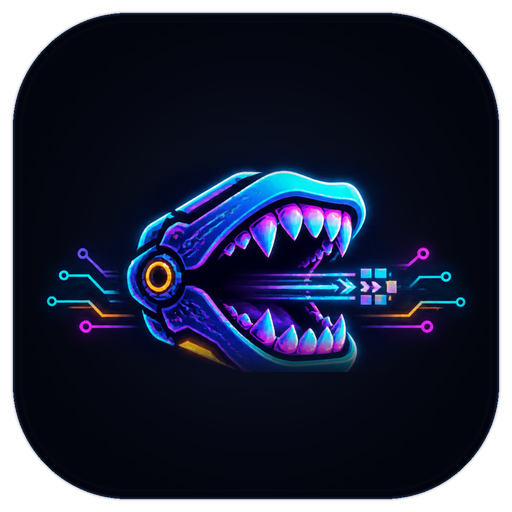
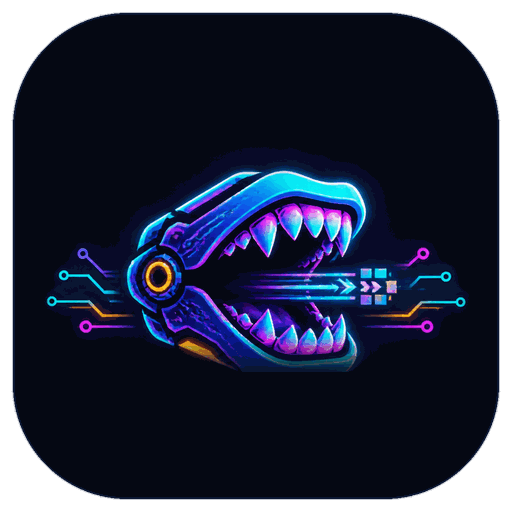
feat(site): 下载页支持 Windows ARM64 与 Linux ARM64，OG 图改用 JPG
- 平台/架构枚举从写死两套扩到六个：win-x64、win-arm64、mac-arm64、mac-x64、
  linux-x64、linux-arm64。原先只有 win-x64 和 linux-x64 会被列出来，
  另外四个架构装了却找不到入口。
- UAData 里补上 getHighEntropyValues，用它读真实架构；拿不到时回退到
  现有的 UA 字符串判断，不影响老逻辑。
- OG 图从 PNG 换成 JPG（体积小得多，社交平台预览图用不上无损）。
- 新增 scripts/check-release-contract.mjs：核对安装包命名、发布矩阵、
  下载文档与网站解析器是否一致，已加入常规 CI。
- 新增 site/src/lib/release-assets.ts 与对应测试，把「哪些安装包是
  真的发布过的」从各处解析逻辑里收拢到一处。

diff --git a/site/scripts/check-images.ts b/site/scripts/check-images.ts
@@ -7,9 +7,10 @@ import { BADGES, badgeVariants } from "../src/data/badges";
 
 const root = path.dirname(path.dirname(fileURLToPath(import.meta.url)));
 const pub = path.join(root, "public");
+const publicPath = (relativePath: string) => path.join(pub, ...relativePath.split("/"));
 const KB = 1024;
 const RULES: [RegExp, number, string][] = [
-  [/^og\/.+\.png$/, 300 * KB, "OG 图 ≤ 300 KB"],
+  [/^og\/.+\.(png|jpe?g)$/i, 300 * KB, "OG 图 ≤ 300 KB"],
   [/^bots\/.+\.(webp|avif)$/, 120 * KB, "机器人精灵图 ≤ 120 KB"],
   [/^(favicon|apple-touch-icon|icon-).+\.png$/, 40 * KB, "图标 ≤ 40 KB"],
   [/\.svg$/, 4 * KB, "SVG ≤ 4 KB"],
@@ -19,7 +20,7 @@ const files: string[] = [];
 (function walk(d: string) {
   for (const e of fs.readdirSync(d, { withFileTypes: true })) {
     const p = path.join(d, e.name);
-    if (e.isDirectory()) walk(p); else files.push(path.relative(pub, p));
+    if (e.isDirectory()) walk(p); else files.push(path.relative(pub, p).split(path.sep).join("/"));
   }
 })(pub);
 
@@ -27,7 +28,7 @@ const bad: string[] = [];
 for (const f of files) {
   const rule = RULES.find(([re]) => re.test(f));
   if (!rule) continue;
-  const size = fs.statSync(path.join(pub, f)).size;
+  const size = fs.statSync(publicPath(f)).size;
   if (size > rule[1]) bad.push(`${f}：${Math.round(size / KB)} KB（${rule[2]}）`);
 }
 // 精灵图的 AVIF 版（scripts/make-bot-avif.ts）必须和当前的 WebP 是同一版：WebP 更新了而 AVIF 没重做，
@@ -35,7 +36,7 @@ for (const f of files) {
 const avifOf: Record<string, string> = JSON.parse(fs.readFileSync(path.join(root, "src/data/bots-avif.json"), "utf8"));
 for (const f of files.filter((f) => /^bots\/.+\.webp$/.test(f))) {
   const key = path.basename(f, ".webp");
-  const hash = crypto.createHash("sha256").update(fs.readFileSync(path.join(pub, f))).digest("hex");
+  const hash = crypto.createHash("sha256").update(fs.readFileSync(publicPath(f))).digest("hex");
   if (!files.includes(`bots/${key}.avif`) || avifOf[key] !== hash) bad.push(`bots/${key}.avif 不是从当前的 ${f} 生成的（npm run bots:avif 重新生成）`);
 }
 // 每张图片徽章都要有本地备份，否则站方的图连不上时格子是空的（styles/footer.css）
@@ -45,7 +46,7 @@ for (const { copy } of BADGES.flatMap(badgeVariants)) {
   if (copy && !files.includes(copy.path)) bad.push(`${copy.path} 不存在（npm run badges:copies 重新生成）`);
   else if (copy && !badgeRatios[copy.path]) bad.push(`${copy.path} 在 badge-ratios.json 里没有宽高比（npm run badges:copies 重新生成）`);
 }
-const fonts = files.filter((f) => f.endsWith(".woff2")).reduce((n, f) => n + fs.statSync(path.join(pub, f)).size, 0);
+const fonts = files.filter((f) => f.endsWith(".woff2")).reduce((n, f) => n + fs.statSync(publicPath(f)).size, 0);
 if (fonts > 60 * KB) bad.push(`字体合计 ${Math.round(fonts / KB)} KB（≤ 60 KB）`);
 if (bad.length) { console.error(`✗ 图片与字体检查未通过：\n  ${bad.join("\n  ")}`); process.exit(1); }
 console.log(`图片与字体体积检查通过（字体合计 ${Math.round(fonts / KB)} KB）`);

diff --git a/site/scripts/releases-from-github.ts b/site/scripts/releases-from-github.ts
@@ -1,5 +1,5 @@
 // 从 GitHub 最新 Release 生成 src/data/releases.json：下载按钮直达 GitHub 上的安装包，官网服务器不提供下载。
-// 文件名按应用 electron-builder 的 artifactName：anymodel-bot-<版本>-<系统>-<架构>.<扩展名>
+// 文件名按应用 electron-builder 的 artifactName：dazuibot-<版本>-<系统>-<架构>.<扩展名>
 //   win-x64 ← *-win-x64.exe（NSIS）   mac-arm64 / mac-x64 ← *-mac-<架构>.dmg   linux-x64 ← *-linux-(x64|x86_64).AppImage
 // SHA-256 取 Release 里的 SHA256SUMS；没有时用 GitHub 给每个文件算的 digest。缺平台时保留占位符（生产构建会因此失败）。
 //   GITHUB_URL     仓库地址（必填），如 https://github.com/<your-org>/dazuibot
@@ -9,6 +9,7 @@
 import fs from "node:fs";
 import path from "node:path";
 import { fileURLToPath } from "node:url";
+import { parseReleaseInstaller, RELEASE_PLATFORMS } from "../src/lib/release-assets";
 
 const root = path.dirname(path.dirname(fileURLToPath(import.meta.url)));
 const repoUrl = (process.env.GITHUB_URL || "").replace(/\/+$/, "").replace(/\.git$/, "");
@@ -46,9 +47,6 @@ try {
   process.exit(1);
 }
 
-const RE = /^dazuibot-(\d+\.\d+\.\d+(?:-[\w.]+)?)-(win|mac|linux)-(x64|arm64|x86_64)\.(exe|dmg|AppImage)$/;
-const PLATFORM: Record<string, string> = { "win-x64-exe": "win-x64", "mac-arm64-dmg": "mac-arm64", "mac-x64-dmg": "mac-x64", "linux-x64-AppImage": "linux-x64", "linux-x86_64-AppImage": "linux-x64" };
-
 // SHA256SUMS：每行 "<64 位十六进制>  <文件名>"
 const sums = new Map<string, string>();
 const sumsAsset = release.assets.find((a) => a.name === "SHA256SUMS");
@@ -69,17 +67,14 @@ const placeholder = (id: string) => {
 };
 const platforms: Record<string, unknown> = {};
 let version = release.tag_name.replace(/^v/, "");
-for (const id of ["win-x64", "mac-arm64", "mac-x64", "linux-x64"]) {
-  const a = release.assets.find((x) => {
-    const r = RE.exec(x.name);
-    return r && PLATFORM[`${r[2]}-${r[3]}-${r[4]}`] === id;
-  });
+for (const id of RELEASE_PLATFORMS) {
+  const a = release.assets.find((x) => parseReleaseInstaller(x.name)?.platform === id);
   const sha = a && (sums.get(a.name) || (a.digest?.startsWith("sha256:") ? a.digest.slice(7) : ""));
   if (!a || !sha) {
     platforms[id] = placeholder(id);
     continue;
   }
-  version = RE.exec(a.name)![1];
+  version = parseReleaseInstaller(a.name)!.version;
   platforms[id] = { url: a.browser_download_url, sha256: sha, sizeMB: Math.round((a.size / 1048576) * 10) / 10 };
 }
 
@@ -99,4 +94,4 @@ const out = {
 };
 fs.writeFileSync(path.join(root, "src/data/releases.json"), JSON.stringify(out, null, 2) + "\n");
 const missing = Object.entries(platforms).filter(([, v]) => /\{[A-Z0-9_]+\}/.test(JSON.stringify(v))).map(([k]) => k);
-console.log(`releases.json：${release.tag_name}（${release.html_url}）${missing.length ? `，缺少 ${missing.join("、")}` : "，四个平台齐全"}`);
+console.log(`releases.json：${release.tag_name}（${release.html_url}）${missing.length ? `，缺少 ${missing.join("、")}` : "，六种架构齐全"}`);

diff --git a/site/src/lib/platform.ts b/site/src/lib/platform.ts
@@ -1,8 +1,26 @@
 // 系统识别（§12.2）：userAgentData.platform → 回退 userAgent；macOS 再尽量判断架构，判断不了时默认 Apple 芯片。
 export type OS = "win" | "mac" | "linux" | "mobile" | "unknown";
-export interface Platform { os: OS; arch: "arm64" | "x64" | "unknown" }
+export type Architecture = "arm64" | "x64" | "unknown";
+export interface Platform { os: OS; arch: Architecture }
 
-type UAData = { platform?: string; mobile?: boolean; getHighEntropyValues?: (h: string[]) => Promise<{ architecture?: string }> };
+type UAData = { platform?: string; mobile?: boolean; getHighEntropyValues?: (h: string[]) => Promise<{ architecture?: string; bitness?: string }> };
+
+export type DownloadPlatformId = "win-x64" | "win-arm64" | "mac-arm64" | "mac-x64" | "linux-x64" | "linux-arm64";
+
+export function architectureFromUAData(architecture?: string, bitness?: string): Architecture {
+  const arch = architecture?.toLowerCase();
+  if (arch === "arm64" || (arch === "arm" && bitness === "64")) return "arm64";
+  if (arch === "x86_64" || (arch === "x86" && bitness === "64")) return "x64";
+  return "unknown";
+}
+
+/** Unknown Windows/Linux architecture defaults to x64; ARM users can still select the labeled build. */
+export function downloadPlatformId(platform: Platform): DownloadPlatformId | null {
+  if (platform.os === "win") return platform.arch === "arm64" ? "win-arm64" : "win-x64";
+  if (platform.os === "mac") return platform.arch === "x64" ? "mac-x64" : "mac-arm64";
+  if (platform.os === "linux") return platform.arch === "arm64" ? "linux-arm64" : "linux-x64";
+  return null;
+}
 
 export function osFromStrings(platform: string, ua: string, touchMac = false): OS {
   const s = `${platform} ${ua}`;
@@ -18,12 +36,12 @@ export async function detectPlatform(): Promise<Platform> {
   const ua = navigator.userAgent;
   // iPadOS 13+ 报自己是 Macintosh，用触点数区分
   const touchMac = /macintosh/i.test(ua) && navigator.maxTouchPoints > 1;
-  const os = uad?.mobile ? "mobile" : osFromStrings(uad?.platform ?? navigator.platform ?? "", ua, touchMac);
+  const os = uad?.mobile ? "mobile" : osFromStrings(uad?.platform ?? "", ua, touchMac);
   let arch: Platform["arch"] = "unknown";
-  if (os === "mac" && uad?.getHighEntropyValues) {
+  if (uad?.getHighEntropyValues && os !== "mobile" && os !== "unknown") {
     try {
-      const v = await uad.getHighEntropyValues(["architecture"]);
-      arch = v.architecture === "x86" ? "x64" : v.architecture === "arm" ? "arm64" : "unknown";
+      const v = await uad.getHighEntropyValues(["architecture", "bitness"]);
+      arch = architectureFromUAData(v.architecture, v.bitness);
     } catch { /* 浏览器不给就按默认 */ }
   }
   return { os, arch };

diff --git a/site/scripts/releases-from-dir.ts b/site/scripts/releases-from-dir.ts
@@ -10,13 +10,12 @@ import crypto from "node:crypto";
 import fs from "node:fs";
 import path from "node:path";
 import { fileURLToPath } from "node:url";
+import { parseReleaseInstaller, RELEASE_PLATFORMS } from "../src/lib/release-assets";
 
 const root = path.dirname(path.dirname(fileURLToPath(import.meta.url)));
 const dir = process.env.DOWNLOADS_DIR;
 if (!dir) { console.error("缺少 DOWNLOADS_DIR"); process.exit(1); }
 
-const RE = /^dazuibot-(\d+\.\d+\.\d+(?:-[\w.]+)?)-(win|mac|linux)-(x64|arm64|x86_64)\.(exe|dmg|AppImage)$/;
-const PLATFORM: Record<string, string> = { "win-x64-exe": "win-x64", "mac-arm64-dmg": "mac-arm64", "mac-x64-dmg": "mac-x64", "linux-x64-AppImage": "linux-x64", "linux-x86_64-AppImage": "linux-x64" };
 // 先比数字三元组，再比预发布后缀：正式版 > 预发布版；都是预发布时按字典序
 const cmpVer = (a: string, b: string) => {
   const parse = (v: string) => { const m = /^(\d+\.\d+\.\d+)(?:-(.+))?$/.exec(v)!; return { nums: m[1].split(".").map(Number), pre: m[2] }; };
@@ -29,9 +28,8 @@ const cmpVer = (a: string, b: string) => {
 
 const files = fs.existsSync(dir) ? fs.readdirSync(dir) : [];
 const found = files.flatMap((name) => {
-  const m = RE.exec(name);
-  const id = m && PLATFORM[`${m[2]}-${m[3]}-${m[4]}`];
-  return m && id ? [{ name, version: m[1], id }] : [];
+  const parsed = parseReleaseInstaller(name);
+  return parsed ? [{ name, ...parsed }] : [];
 });
 const version = found.map((f) => f.version).sort(cmpVer).at(-1);
 
@@ -47,8 +45,8 @@ const placeholder = (id: string) => {
 };
 const platforms: Record<string, unknown> = {};
 let newest = 0;
-for (const id of ["win-x64", "mac-arm64", "mac-x64", "linux-x64"]) {
-  const f = found.find((x) => x.id === id && x.version === version);
+for (const id of RELEASE_PLATFORMS) {
+  const f = found.find((x) => x.platform === id && x.version === version);
   if (!f) { platforms[id] = placeholder(id); continue; }
   const full = path.join(dir, f.name);
   const st = fs.statSync(full);

diff --git a/site/src/i18n/zh.ts b/site/src/i18n/zh.ts
@@ -6,7 +6,7 @@ export const zh = {
     title: "dazuibot｜本地运行的 AI 机器人，任意模型，按量付费",
     description:
       "开源、本地运行的 Grok Bot / OpenAI dots / Claude Duet 替代。在自己的电脑或服务器上运行 AI 机器人：名字、人设、模型都由你定；对话、记忆、文件、密钥留在你的设备上；一个 zdzui Key 接入 GPT、Claude、Gemini 等模型；App 免费，按用量付费，价格表公开。桌面、Docker、微信、飞书可用。",
-    ogImage: "/og/og-zh.png",
+    ogImage: "/og/og-zh.jpg",
   },
   nav: {
     main: "主导航",
@@ -406,9 +406,9 @@ export const zh = {
     mobile: "手机上通过微信 / 飞书使用",
     generic: "下载",
     more: "其它平台",
-    items: { "win-x64": "Windows 安装包（NSIS）", "mac-arm64": "macOS Apple 芯片", "mac-x64": "macOS Intel", "linux-x64": "Linux AppImage", docker: "Docker 命令", changelog: "更新日志" },
-    platform: { "win-x64": "Windows", "mac-arm64": "macOS", "mac-x64": "macOS", "linux-x64": "Linux" },
-    arch: { "win-x64": "x64", "mac-arm64": "Apple 芯片", "mac-x64": "Intel", "linux-x64": "x64 · AppImage" },
+    items: { "win-x64": "Windows 安装包（NSIS）", "win-arm64": "Windows ARM64 安装包（NSIS）", "mac-arm64": "macOS Apple 芯片", "mac-x64": "macOS Intel", "linux-x64": "Linux x64 AppImage", "linux-arm64": "Linux ARM64 AppImage", docker: "Docker 命令", changelog: "更新日志" },
+    platform: { "win-x64": "Windows", "win-arm64": "Windows", "mac-arm64": "macOS", "mac-x64": "macOS", "linux-x64": "Linux", "linux-arm64": "Linux" },
+    arch: { "win-x64": "x64", "win-arm64": "ARM64", "mac-arm64": "Apple 芯片", "mac-x64": "Intel", "linux-x64": "x64 · AppImage", "linux-arm64": "ARM64 · AppImage" },
     meta: "版本 {version} · 发布于 {publishedAt}",
     sha: "SHA-256",
     started: "已开始下载，可在浏览器下载列表查看。",

diff --git a/site/src/i18n/en.ts b/site/src/i18n/en.ts
@@ -7,7 +7,7 @@ export const en: Dict = {
     title: "dazuibot — Local AI bots, any model, pay per use",
     description:
       "An open-source, local-first alternative to Grok Bot, OpenAI dots and Claude Duet. Run AI bots on your own computer or server, with the name, persona and model up to you. Chats, memory, files and keys stay on your device; one zdzui key unlocks GPT, Claude, Gemini and more. The app is free and you pay per use, with a public price list. Desktop, Docker, Slack, Telegram and Discord.",
-    ogImage: "/og/og-en.png",
+    ogImage: "/og/og-en.jpg",
   },
   nav: {
     main: "Main",
@@ -401,9 +401,9 @@ export const en: Dict = {
     mobile: "Use it from your chat apps",
     generic: "Download",
     more: "Other platforms",
-    items: { "win-x64": "Windows installer (NSIS)", "mac-arm64": "macOS Apple silicon", "mac-x64": "macOS Intel", "linux-x64": "Linux AppImage", docker: "Docker command", changelog: "Changelog" },
-    platform: { "win-x64": "Windows", "mac-arm64": "macOS", "mac-x64": "macOS", "linux-x64": "Linux" },
-    arch: { "win-x64": "x64", "mac-arm64": "Apple silicon", "mac-x64": "Intel", "linux-x64": "x64 · AppImage" },
+    items: { "win-x64": "Windows x64 installer (NSIS)", "win-arm64": "Windows ARM64 installer (NSIS)", "mac-arm64": "macOS Apple silicon", "mac-x64": "macOS Intel", "linux-x64": "Linux x64 AppImage", "linux-arm64": "Linux ARM64 AppImage", docker: "Docker command", changelog: "Changelog" },
+    platform: { "win-x64": "Windows", "win-arm64": "Windows", "mac-arm64": "macOS", "mac-x64": "macOS", "linux-x64": "Linux", "linux-arm64": "Linux" },
+    arch: { "win-x64": "x64", "win-arm64": "ARM64", "mac-arm64": "Apple silicon", "mac-x64": "Intel", "linux-x64": "x64 · AppImage", "linux-arm64": "ARM64 · AppImage" },
     meta: "Version {version} · Published {publishedAt}",
     sha: "SHA-256",
     started: "Download started — check your browser's downloads.",

diff --git a/site/tests/release-assets.test.ts b/site/tests/release-assets.test.ts
@@ -1,0 +1,28 @@
+import { describe, expect, it } from "vitest";
+import { parseReleaseInstaller, RELEASE_PLATFORMS } from "../src/lib/release-assets";
+
+describe("GitHub release installer assets", () => {
+  it("recognizes the six supported product/architecture artifacts", () => {
+    const names = [
+      ["dazuibot-1.0.0-zdzui.1-win-x64.exe", "win-x64"],
+      ["dazuibot-1.0.0-zdzui.1-win-arm64.exe", "win-arm64"],
+      ["dazuibot-1.0.0-zdzui.1-mac-arm64.dmg", "mac-arm64"],
+      ["dazuibot-1.0.0-zdzui.1-mac-x64.dmg", "mac-x64"],
+      ["dazuibot-1.0.0-zdzui.1-linux-x64.AppImage", "linux-x64"],
+      ["dazuibot-1.0.0-zdzui.1-linux-arm64.AppImage", "linux-arm64"],
+    ] as const;
+    expect(names.map(([name]) => parseReleaseInstaller(name)?.platform)).toEqual(names.map(([, platform]) => platform));
+    expect(new Set(names.map(([, platform]) => platform))).toEqual(new Set(RELEASE_PLATFORMS));
+  });
+
+  it("preserves preview versions and supports the legacy linux x86_64 spelling", () => {
+    expect(parseReleaseInstaller("dazuibot-2.3.4-rc.2-linux-x86_64.AppImage")).toEqual({ version: "2.3.4-rc.2", platform: "linux-x64" });
+    expect(parseReleaseInstaller("dazuibot-2.3.4-rc.2-win-arm64.exe")).toEqual({ version: "2.3.4-rc.2", platform: "win-arm64" });
+  });
+
+  it("rejects unrelated files and invalid platform/extension combinations", () => {
+    expect(parseReleaseInstaller("other-1.0.0-win-arm64.exe")).toBeUndefined();
+    expect(parseReleaseInstaller("dazuibot-1.0.0-win-arm64.dmg")).toBeUndefined();
+    expect(parseReleaseInstaller("dazuibot-1.0.0-linux-x64.exe")).toBeUndefined();
+  });
+});

diff --git a/site/src/lib/site.ts b/site/src/lib/site.ts
@@ -4,6 +4,7 @@ import releasesJson from "../data/releases.json";
 import snapshotJson from "../data/pricing.snapshot.json";
 import githubJson from "../data/github.json";
 import type { Snapshot } from "./pricing";
+import { RELEASE_PLATFORMS, type ReleasePlatform } from "./release-assets";
 
 const env = (k: string) => (import.meta.env[k] as string | undefined) || process.env[k] || `{${k}}`;
 /** 可选配置：没配时为空串（不产生占位符，也不会渲染出半截链接） */
@@ -44,15 +45,17 @@ const Releases = z.object({
   publishedAt: z.string().min(1),
   platforms: z.object({
     "win-x64": Bin,
+    "win-arm64": Bin,
     "mac-arm64": Bin,
     "mac-x64": Bin,
     "linux-x64": Bin,
+    "linux-arm64": Bin,
     docker: z.object({ image: z.string().min(1), command: z.string().min(1) }),
   }),
 });
 export const releases = Releases.parse(releasesJson);
-export type PlatformId = "win-x64" | "mac-arm64" | "mac-x64" | "linux-x64";
-export const PLATFORMS: PlatformId[] = ["win-x64", "mac-arm64", "mac-x64", "linux-x64"];
+export type PlatformId = ReleasePlatform;
+export const PLATFORMS: PlatformId[] = [...RELEASE_PLATFORMS];
 
 /** 上游历史价格快照（2026-10-30 抓取，不是本站定价）。页面上只用它的非价格事实：
  *  模型清单、厂商、上下文长度、分档阈值；任何具体价格数字都不展示（本站定价以站点后台为准）。 */

diff --git a/site/tests/platform.test.ts b/site/tests/platform.test.ts
@@ -1,5 +1,5 @@
 import { describe, expect, it } from "vitest";
-import { osFromStrings } from "../src/lib/platform";
+import { architectureFromUAData, downloadPlatformId, osFromStrings } from "../src/lib/platform";
 import { fmt, fmtDate, href } from "../src/i18n";
 
 describe("系统识别", () => {
@@ -12,6 +12,21 @@ describe("系统识别", () => {
     ["", "", "unknown"],
   ])("%s → %s", (p, ua, os) => expect(osFromStrings(p, ua)).toBe(os));
   it("iPadOS 伪装成 Mac 时按手机处理", () => expect(osFromStrings("MacIntel", "Mozilla/5.0 (Macintosh; Intel Mac OS X 10_15_7)", true)).toBe("mobile"));
+  it.each([
+    ["x86", "64", "x64"],
+    ["arm", "64", "arm64"],
+    ["arm64", "64", "arm64"],
+    ["arm", "32", "unknown"],
+    [undefined, undefined, "unknown"],
+  ] as const)("UA architecture %s/%s → %s", (arch, bitness, expected) => expect(architectureFromUAData(arch, bitness)).toBe(expected));
+  it.each([
+    [{ os: "win", arch: "x64" }, "win-x64"],
+    [{ os: "win", arch: "arm64" }, "win-arm64"],
+    [{ os: "win", arch: "unknown" }, "win-x64"],
+    [{ os: "linux", arch: "arm64" }, "linux-arm64"],
+    [{ os: "mac", arch: "x64" }, "mac-x64"],
+    [{ os: "mobile", arch: "unknown" }, null],
+  ] as const)("direct-download target for %o is %s", (platform, expected) => expect(downloadPlatformId(platform)).toBe(expected));
 });
 
 describe("i18n 工具", () => {

diff --git a/site/src/scripts/banner.ts b/site/src/scripts/banner.ts
@@ -1,6 +1,6 @@
 // 顶部公告条的交互（components/SiteBanner.astro）：轮播、翻页 / 滑动、关闭、按系统换下载直链、倒计时、埋点。
 // 显示哪些条目已由组件里的内联脚本在首帧前决定（带 data-on 的是当前这条），这里接着往下做。
-import type { Platform } from "../lib/platform";
+import { downloadPlatformId, type Platform } from "../lib/platform";
 
 type Deps = {
   track: (name: string, props?: Record<string, unknown>) => void;
@@ -119,7 +119,7 @@ export function initBanner({ track, platform, data, store }: Deps) {
   // —— 发版条的下载按钮：识别出系统、且有安装包地址时，直接下载对应安装包（点击埋点和提示走 client.ts 的下载逻辑） ——
   const dl = [...bar.querySelectorAll<HTMLAnchorElement>("a[data-dl-auto]")];
   if (dl.length) platform.then((p) => {
-    const pid = p.os === "win" ? "win-x64" : p.os === "mac" ? (p.arch === "x64" ? "mac-x64" : "mac-arm64") : p.os === "linux" ? "linux-x64" : null;
+    const pid = downloadPlatformId(p);
     const url = pid ? data.platforms?.[pid]?.url : undefined;
     if (!pid || !url || /\{[A-Z][A-Z0-9_]*\}/.test(url)) return; // 识别不出或还没有安装包：留在 /download
     dl.forEach((a) => {

diff --git a/site/src/scripts/client.ts b/site/src/scripts/client.ts
@@ -1,7 +1,7 @@
 // 所有页面共用的交互：主题、语言提示、导航、菜单、对话框、复制、Toast、下载识别、入场动画、埋点。
 // 每块都先判断元素在不在；本地存储一律 try/catch（隐私模式下可能抛错）。
 import { mountEyes } from "../lib/eyes";
-import { detectPlatform } from "../lib/platform";
+import { detectPlatform, downloadPlatformId } from "../lib/platform";
 import { initBanner } from "./banner";
 import "./stars";
 import "./sections";
@@ -226,7 +226,7 @@ const platform = detectPlatform().then((p) => {
   if (!groups.length || !data.platforms) return;
   const p = await platform;
   const label = p.os === "win" ? data.i18n.win : p.os === "mac" ? data.i18n.mac : p.os === "linux" ? data.i18n.linux : p.os === "mobile" ? data.i18n.mobile : data.i18n.generic;
-  const pid = p.os === "win" ? "win-x64" : p.os === "mac" ? (p.arch === "x64" ? "mac-x64" : "mac-arm64") : p.os === "linux" ? "linux-x64" : null;
+  const pid = downloadPlatformId(p);
   groups.forEach((g) => {
     const main = g.querySelector<HTMLAnchorElement>("[data-dl-main]")!;
     const lab = g.querySelector<HTMLElement>("[data-dl-label]")!;

diff --git a/site/src/lib/release-assets.ts b/site/src/lib/release-assets.ts
@@ -1,0 +1,30 @@
+export const RELEASE_PLATFORMS = [
+  "win-x64",
+  "win-arm64",
+  "mac-arm64",
+  "mac-x64",
+  "linux-x64",
+  "linux-arm64",
+] as const;
+
+export type ReleasePlatform = typeof RELEASE_PLATFORMS[number];
+
+const ASSET_PLATFORM: Record<string, ReleasePlatform> = {
+  "win-x64-exe": "win-x64",
+  "win-arm64-exe": "win-arm64",
+  "mac-arm64-dmg": "mac-arm64",
+  "mac-x64-dmg": "mac-x64",
+  "linux-arm64-AppImage": "linux-arm64",
+  "linux-x64-AppImage": "linux-x64",
+  // Accept archives that used Go's x86_64 name before electron-builder naming was normalized.
+  "linux-x86_64-AppImage": "linux-x64",
+};
+
+const INSTALLER = /^dazuibot-(\d+\.\d+\.\d+(?:-[\w.]+)?)-(win|mac|linux)-(x64|arm64|x86_64)\.(exe|dmg|AppImage)$/;
+
+export function parseReleaseInstaller(name: string): { version: string; platform: ReleasePlatform } | undefined {
+  const match = INSTALLER.exec(name);
+  if (!match) return undefined;
+  const platform = ASSET_PLATFORM[`${match[2]}-${match[3]}-${match[4]}`];
+  return platform ? { version: match[1], platform } : undefined;
+}
